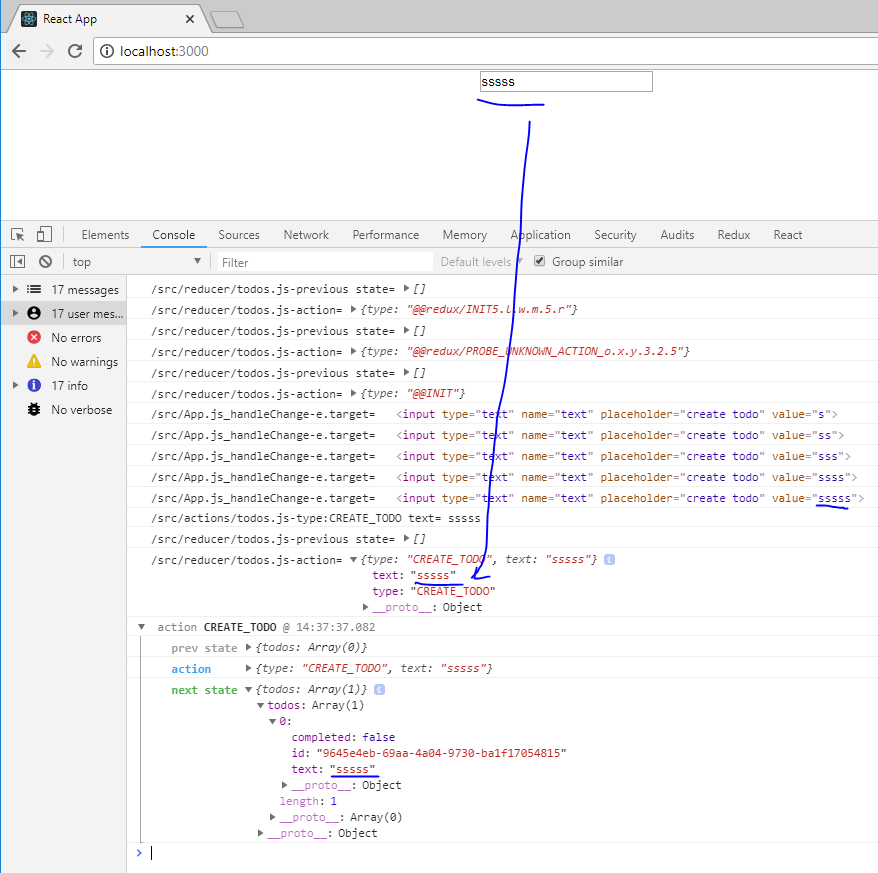
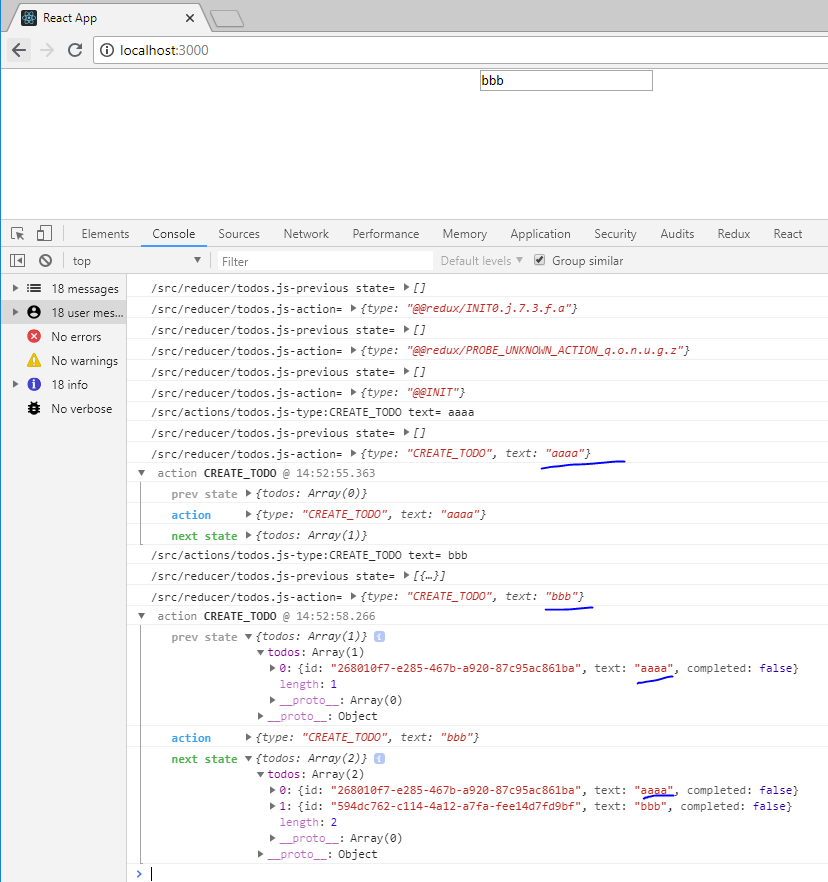
todos adding in app.js without error

diff --git a/src/App.js b/src/App.js
@@ -6,7 +6,7 @@ import { createTodo} from './actions/todos';
 class App extends Component 
 { state = {text: '',}
   _handleChange = e => 
-  { console.log('/src/App.js_handleChange-e.target=', e.target);
+  { //console.log('/src/App.js_handleChange-e.target=', e.target);
     this.setState({  [e.target.name]: e.target.value, });
   };
   _handleSubmit = e => 
@@ -14,7 +14,7 @@ class App extends Component
   //  console.log('/src/App.js_handleSubmit-e=',e)
     //this.props.createTodo();
     this.props.createTodo(this.state.text);
-   // this.setState({ text: '', });
+    this.setState({ text: '', });
   };
   render() 
   {
@@ -23,6 +23,13 @@ class App extends Component
          <form className="App-intro" onSubmit={this._handleSubmit}>
           <input value={this.state.text} onChange={this._handleChange} type="text" name="text" placeholder="create todo"  />
         </form>
+        <br />
+        {this.props.todos.map(todo => ( <div key={todo.id}>
+                                         {todo.text}
+                                        </div>
+                                       )
+                              )
+        }
       </div>
     );
   }
@@ -30,4 +37,5 @@ class App extends Component
 //export default App;
 //export default connect()(App);
 //---connect takes two things----mapstatetoprops--and---mapdispatchprops---
-export default connect(undefined,{createTodo})(App);
+//export default connect(undefined,{createTodo})(App);
+export default connect(state => ({todos: state.todos}),{createTodo})(App);

diff --git a/README.md b/README.md
@@ -121,3 +121,8 @@ registerServiceWorker();
       export default connect(undefined,{createTodo})(App);
 ```
 ![enter image description here](https://github.com/manojkmishra/react-redux-todos/blob/master/screenshots/createtodoinapp.PNG) 
+-add mapstatetoprops in app.js  
+```
+export default connect(state => ({todos: state.todos}),{createTodo})(App);
+```
+![enter image description here](https://github.com/manojkmishra/react-redux-todos/blob/master/screenshots/addmapstatetoprops.PNG) 
